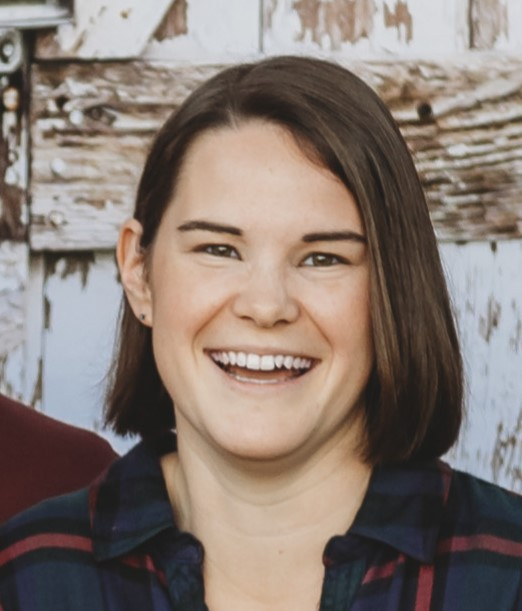
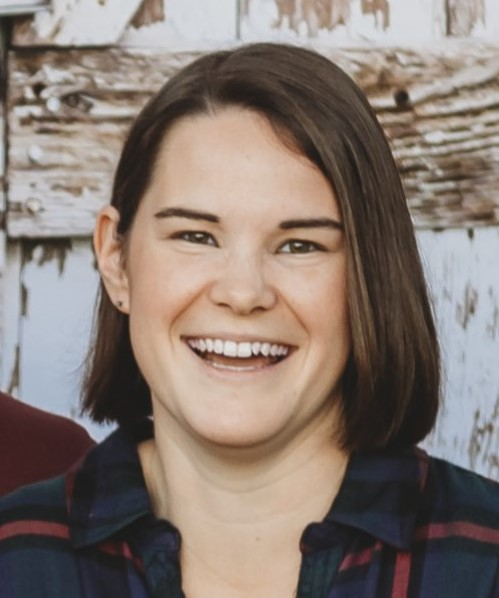
initial commit, add header and headshot photo

diff --git a/src/App.js b/src/App.js
@@ -1,15 +1,11 @@
-import SarahKennedy from './SarahKennedy.jpg';
 import './App.css';
 
 export default function App() {
   return (
     <div className="App">
       <header className="App-header">
-        <img src={SarahKennedy} className="Headshot" alt="Sarah Kennedy Headshot" />
-        <h1>
-          Sarah Kennedy
-        </h1>
+        <h1>Sarah Kennedy</h1>
+        <h2>Junior Frontend Developer</h2>
+        <em><h4>React • JavaScript • HTML • CSS</h4></em>
       </header>
-    </div>
-  );
-}
+      </div>);}

diff --git a/src/index.js b/src/index.js
@@ -3,11 +3,14 @@ import ReactDOM from 'react-dom/client';
 import './index.css';
 import App from './App';
 import reportWebVitals from './reportWebVitals';
+import 'bootstrap/dist/css/bootstrap.css';
+import Photo from './Photo';
 
 const root = ReactDOM.createRoot(document.getElementById('root'));
 root.render(
   <React.StrictMode>
     <App />
+    <Photo />
   </React.StrictMode>
 );
 

diff --git a/src/App.css b/src/App.css
@@ -2,6 +2,17 @@
   text-align: center;
 }
 
-.Headshot {
-  border-radius: 100%;
+.App header {
+  background-color: #e9f2fec3;
+  text-align: center;
+  color: #4e2123fd;
+  padding: 10px;
+}
+
+.App h1 {
+  font-size: 40px;
+}
+
+.card {
+  border: none;
 }

diff --git a/src/Photo.js b/src/Photo.js
@@ -1,0 +1,8 @@
+import React from "react";
+import SarahKennedy from './SarahKennedy.jpg';
+import './Photo.css';
+
+export default function Photo() {
+    return <div><img src={SarahKennedy} alt="Sarah Kennedy Headshot" />
+    </div>
+};

diff --git a/src/Photo.css b/src/Photo.css
@@ -1,0 +1,6 @@
+img {
+    border-radius: 10px;
+    max-width: 250px;
+    margin: 10px auto;
+    display: flex;
+}
